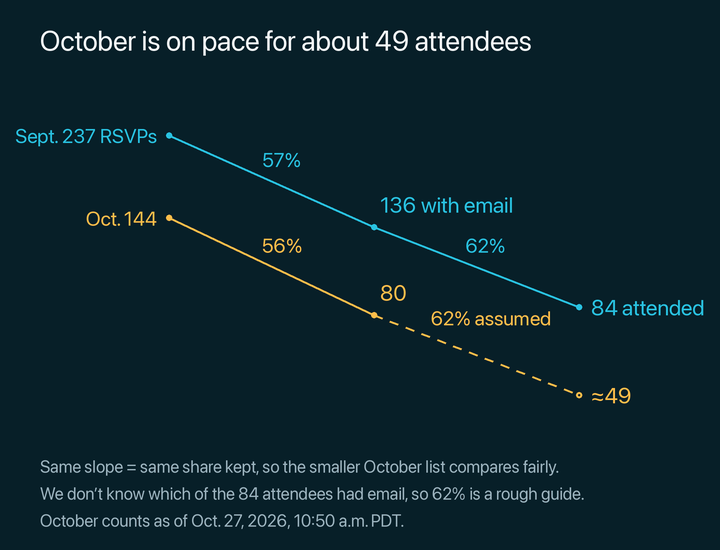
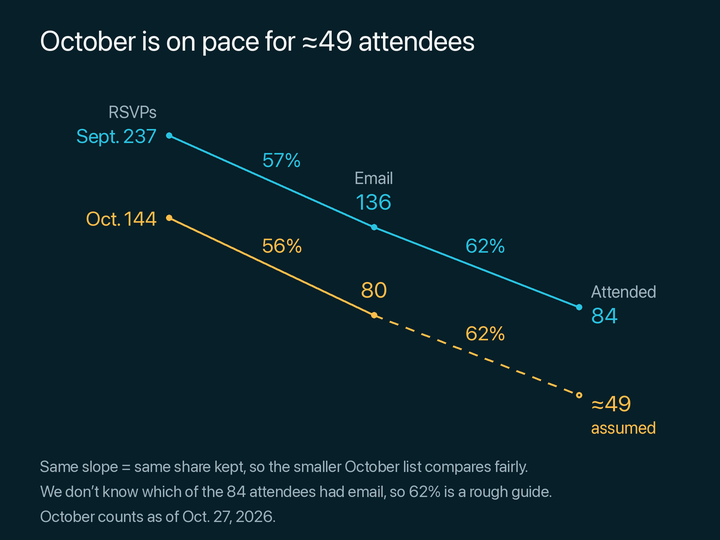
Apply markup to selected RSVP funnel chart labels

diff --git a/docs/reports/rsvp-attendance-funnel-visual-options/render_options.py b/docs/reports/rsvp-attendance-funnel-visual-options/render_options.py
@@ -35,7 +35,7 @@ ALTERNATE = O_TOTAL * Fraction(ATTENDED, S_TOTAL)
 GAP = (S_SHARE - O_SHARE) * 100
 W, H, SCALE = 1200, 1040, RENDER_SCALE
 SEPT_COLOR, OCT_COLOR = CLONES, VIEWS
-FONTS = {size: load_font(size) for size in (15, 17, 18, 20, 22, 24, 28, 32, 40)}
+FONTS = {size: load_font(size) for size in (15, 16, 17, 18, 20, 22, 24, 28, 32, 40)}
 BOLD = {size: load_font(size, bold=True) for size in (18, 20, 22, 24, 28, 32, 40)}
 
 
@@ -99,7 +99,7 @@ class Canvas:
 
 
 def option_a():
-    c = Canvas(width=720, height=550)
+    c = Canvas(width=720, height=540)
     xs = (169, 374, 579)
 
     def y(value):
@@ -134,7 +134,7 @@ def option_a():
         c.text(x, yy, text, size, color, anchor=anchor)
         boxes.append(box)
 
-    label(40, 40, f"October is on pace for about {round(ESTIMATE)} attendees", 28, anchor="lm")
+    label(40, 40, f"October is on pace for ≈{round(ESTIMATE)} attendees", 28, anchor="lm")
     for name, counts, color in series:
         ys = [y(v) for v in counts]
         for i in range(2):
@@ -143,21 +143,29 @@ def option_a():
         for i, (x, yy, value) in enumerate(zip(xs, ys, counts)):
             estimated = name == "Oct." and i == 2
             c.dot(x, yy, color, hollow=estimated, radius=3)
-            sept = name == "Sept."
+            stage = name == "Sept."
             if i == 0:
-                label(x-12, yy, f"{name} {value}" + (" RSVPs" if sept else ""), 20, color, "rm")
+                label(x-12, yy, f"{name} {value}", 20, color, "rm")
+                if stage:
+                    label(x-12, yy-24, "RSVPs", 17, MUTED, "rm")
             elif i == 1:
-                label(x+6, yy-10, f"{value}" + (" with email" if sept else ""), 22, color, "ld")
+                label(x, yy-26, str(value), 22, color)
+                if stage:
+                    label(x, yy-50, "Email", 17, MUTED)
             else:
-                text = f"≈{round(value)}" if estimated else f"{value} attended"
-                label(x+12, yy, text, 22, color, "lm")
+                # Drop end labels slightly so they continue the downward slope.
+                label(x+12, yy+8, f"≈{round(value)}" if estimated else str(value), 22, color, "lm")
+                if stage:
+                    label(x+12, yy-16, "Attended", 17, MUTED, "lm")
+                if estimated:
+                    label(x+12, yy+32, "assumed", 17, color, "lm")
     for row, (name, counts, color) in enumerate(series):
         ratios = (S_SHARE if row == 0 else O_SHARE, RATIO)
         for i, ratio in enumerate(ratios):
             start, end = segments[row*2+i]
             dx, dy = end[0]-start[0], end[1]-start[1]
             length = math.hypot(dx, dy)
-            text = f"{round(float(ratio) * 100)}%" + (" assumed" if row == 1 and i == 1 else "")
+            text = f"{round(float(ratio) * 100)}%"
             for offset in range(24, 121, 4):
                 x = (start[0]+end[0])/2 + dy/length*offset
                 yy = (start[1]+end[1])/2 - dx/length*offset
@@ -166,9 +174,9 @@ def option_a():
                     break
             else:
                 raise ValueError(f"No clear position for {text}")
-    label(40, 466, "Same slope = same share kept, so the smaller October list compares fairly.", 17, MUTED, "lm")
-    label(40, 493, "We don’t know which of the 84 attendees had email, so 62% is a rough guide.", 17, MUTED, "lm")
-    label(40, 520, "October counts as of Oct. 27, 2026, 10:50 a.m. PDT.", 17, MUTED, "lm")
+    label(40, 466, "Same slope = same share kept, so the smaller October list compares fairly.", 16, MUTED, "lm")
+    label(40, 491, "We don’t know which of the 84 attendees had email, so 62% is a rough guide.", 16, MUTED, "lm")
+    label(40, 516, "October counts as of Oct. 27, 2026.", 16, MUTED, "lm")
     c.save("option-a-log-scale-three-stage-slopegraph.png", footer=False)
     print(f"Option A: {len(boxes)} labels clear all four segments by at least 6 px; no text overlaps.")
 

diff --git a/docs/reports/rsvp-attendance-funnel-visual-options/rsvp-attendance-funnel-visual-options-comparison.md b/docs/reports/rsvp-attendance-funnel-visual-options/rsvp-attendance-funnel-visual-options-comparison.md
@@ -4,7 +4,7 @@
 
 **Selected: A, the three-stage slopegraph.** Wesley chose A in A1 and asked for less clutter, a narrower image and labels that do not collide with lines. That choice supersedes the initial recommendation of B.
 
-Option A is now **720 × 550**, 40% narrower than the original 1200-pixel image. B and C remain static 1200 × 1040 comparison images. A leads with its takeaway (“October is on pace for about 49 attendees”), labels stages directly on September’s points, shows whole-number percentages and ends with three plain-language notes. The brand, study badge, stage header row, repeated formulas, axis ticks and long footer were removed from A; exact arithmetic and full caveats remain below. All options reuse the existing palette and font loader, with direct labels and no legend or gridlines. No final animation has been built.
+Option A is now **720 × 540**, 40% narrower than the original 1200-pixel image. B and C remain static 1200 × 1040 comparison images. A leads with its takeaway (“October is on pace for ≈49 attendees”), puts small grey stage names (RSVPs, Email, Attended) directly above September’s counts, shows whole-number percentages and ends with three smaller plain-language notes. The brand, study badge, stage header row, repeated formulas, axis ticks and long footer were removed from A; exact arithmetic, the full snapshot time and caveats remain below. All options reuse the existing palette and font loader, with direct labels and no legend or gridlines. No final animation has been built.
 
 ## Counts and snapshot
 
@@ -54,13 +54,13 @@ Fractions below are exact. Decimals with an ellipsis continue; headline percenta
 
 ## Option A — log-scale three-stage slopegraph
 
-![Option A: September and October counts across RSVPs, with email and attendance, with stage names on September’s points; October’s estimated last step is dashed.](option-a-log-scale-three-stage-slopegraph.png)
+![Option A: September and October counts across RSVPs, with email and attendance, with grey stage names above September’s counts; October’s estimated last step is dashed and labeled assumed.](option-a-log-scale-three-stage-slopegraph.png)
 
 **What a viewer gets in five seconds:** both months lose a similar proportion between RSVPs and email guests; extending October with September’s next ratio gives about 49 attendees. Counts remain visible throughout.
 
 **Organizing principle:** follow each month left to right. Equally spaced stages and one shared logarithmic count mapping make equal proportional changes parallel; no points are nudged away from their values.
 
-**Honesty risks:** a log scale is unfamiliar and has no zero. Equal visual distances mean equal multipliers, not equal numbers of people. The chart says this plainly (“same slope = same share kept”) instead of naming the scale, and labels every count directly; it does not need a count axis. The first steps are nearly, not exactly, parallel. The whole-percent labels 57% and 56% still show that difference; its exact size is in the arithmetic table above. A three-stage line can suggest a tracked group, so the chart says we don’t know which of the 84 attendees had email, making 62% a rough guide. Dashed October attendance, its hollow endpoint and “62% assumed” mark the assumption. The endpoint is plotted at the unrounded 840/17 and labeled approximately 49.
+**Honesty risks:** a log scale is unfamiliar and has no zero. Equal visual distances mean equal multipliers, not equal numbers of people. The chart says this plainly (“same slope = same share kept”) instead of naming the scale, and labels every count directly; it does not need a count axis. The first steps are nearly, not exactly, parallel. The whole-percent labels 57% and 56% still show that difference; its exact size is in the arithmetic table above. A three-stage line can suggest a tracked group, so the chart says we don’t know which of the 84 attendees had email, making 62% a rough guide. Dashed October attendance, its hollow endpoint and the orange “assumed” under ≈49 mark the assumption. The endpoint is plotted at the unrounded 840/17 and labeled approximately 49.
 
 **Effort to animate like the existing GIF:** low to medium. Reuse the reveal, dash treatment, font loader and GIF encoding, with the compact three-column layout and fixed log mapping. Label positions now use measured text bounds checked against every line segment and every other label. Ratio labels move above the slope until they have room; no background patch hides a line. Retain these fixed positions during a reveal. No animation has been implemented.
 
@@ -98,8 +98,8 @@ python3 -B docs/reports/rsvp-attendance-funnel-visual-options/render_options.py
 
 The [render script](render_options.py) reads the saved stats, imports the existing palette/font loader, uses exact rational arithmetic until drawing, and writes only the three PNGs beside itself. It does not update the source report, stats, GIF or Google Sheet. Layout and copy are mockups for this snapshot, not a hardened general-purpose chart API.
 
-Verification performed: ran the renderer after the second compact revision and opened the new A PNG for visual inspection. A rendered at 720 × 550; all 14 text labels passed the render-time check for at least six pixels of clearance from all four full line segments, with no text overlaps. Text bounds also passed the canvas-edge check. B and C still rendered at 1200 × 1040. No test suite was run, as requested. Static mockups only; no animation timing or device-specific display check is claimed.
+Verification performed: ran the renderer after the third compact revision and opened the new A PNG for visual inspection. A rendered at 720 × 540; all 18 text labels passed the render-time check for at least six pixels of clearance from all four full line segments, with no text overlaps. Text bounds also passed the canvas-edge check. B and C still rendered at 1200 × 1040. No test suite was run, as requested. Static mockups only; no animation timing or device-specific display check is claimed.
 
 ## Selected design
 
-A1 is resolved: **A — follow each month’s count path**, with less clutter, a narrower layout and labels clear of lines. A second pass replaced the topic title with the takeaway, put stage names on September’s points instead of a header row, rounded percentages to whole numbers and rewrote the notes in plain words. The refined A image is embedded above. B and C remain here as the alternatives considered, not as open choices. Both attendance formulas and the complete snapshot caveats remain in this report rather than on the compact chart.
+A1 is resolved: **A — follow each month’s count path**, with less clutter, a narrower layout and labels clear of lines. A second pass replaced the topic title with the takeaway, rounded percentages to whole numbers and rewrote the notes in plain words. A third pass, from Wesley’s marked-up screenshot, moved grey stage names above September’s counts, centered 136 and 80 over their dots, lowered 84 and ≈49 to follow the line slope, moved “assumed” under ≈49, shrank the notes and dropped the clock time from the chart. The refined A image is embedded above. B and C remain here as the alternatives considered, not as open choices. Both attendance formulas and the complete snapshot caveats remain in this report rather than on the compact chart.
